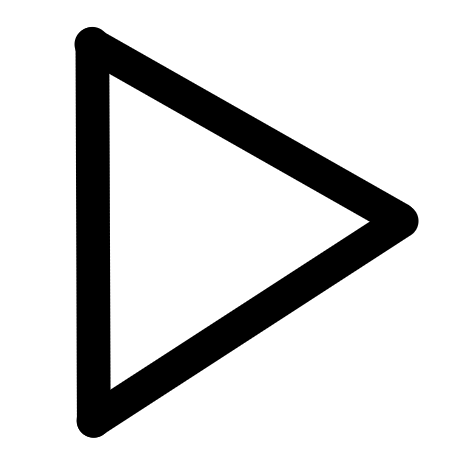
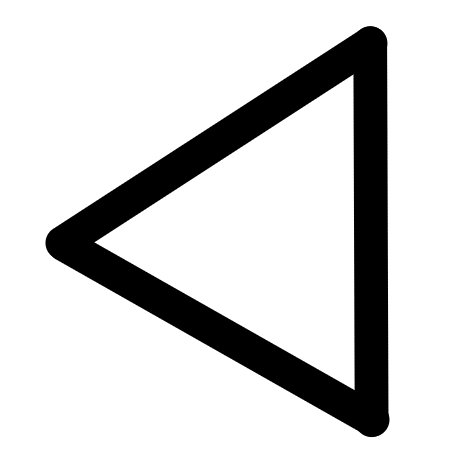
improve navigation and bugfixes

Changed region(s): [[0.0905, 0.0302, 0.9052, 0.9655]]

diff --git a/app/birdhouse/birdhouse-navigation.js b/app/birdhouse/birdhouse-navigation.js
@@ -8,50 +8,51 @@ var img_back       = '<img id="streamToggle_black" src="birdhouse/img/nav-back.p
 var img_forth_full = '<img id="streamToggle_black" src="birdhouse/img/nav-forth-full.png" class="nav-img-3">';
 var img_forth      = '<img id="streamToggle_black" src="birdhouse/img/nav-forth.png" class="nav-img-3">';
 
-var app_navigation = `<div class="nav-container">
-                <div class="nav-bar" id="nav-bar-1">
-                    <div class="controls">
-
-                        <span id="stream" onclick="toggleFloatingLowRes();" class="nav-on">
-                            <img id="streamToggle" src="birdhouse/img/camera.png" class="nav-img">
-                            <img id="streamToggle_black" src="birdhouse/img/camera_black.png" class="nav-img" style="display:none;">
-                        </span>
-
-                        <span id="moveUp_off" class="nav-off">`+img_up+`</span>
-                        <span id="moveUp" class="nav-on" style="display:none;" onclick="window.scrollTo(0,0);">`+img_up_full+`</span>
-
-                        <span id="moveForth_off" class="nav-off">`+img_forth+`</span>
-                        <span id="moveForth" class="nav-on" style="display:none;" onclick="birdhousePrint_page('PAGE_HISTORY|-1');">`+img_forth_full+`</span>
-
-                        <span id="moveBack_off" class="nav-off">`+img_back+`</span>
-                        <span id="moveBack" class="nav-on" style="display:none;" onclick="birdhousePrint_page('PAGE_HISTORY|1');">`+img_back_full+`</span>
-                    </div>
-                </div>
-            </div>
-            <div class="nav-container-top" onclick="birdhouse_toggleNavigation();">
-                <div class="nav-bar top" id="nav-bar-2">
-                    `+img_plus+`
-                </div>
-            </div>`;
-
-setTextById("navigation", app_navigation);
 
 var navBar1 = undefined;
 var navBar2 = undefined;
 
 function birdhouse_loadNavigation() {
-    navBar1 = document.getElementById('nav-bar-1');
-    navBar2 = document.getElementById('nav-bar-2');
+    var app_navigation = `<div class="nav-container">
+                        <div class="nav-bar" id="nav-bar-1">
+                            <div class="controls">
 
+                                <span id="stream" onclick="toggleFloatingLowRes();" class="nav-on">
+                                    <img id="streamToggle" src="birdhouse/img/camera.png" class="nav-img" title="`+lang('SHOW_STREAM')+`">
+                                    <img id="streamToggle_black" src="birdhouse/img/camera_black.png" class="nav-img" title="show stream" style="display:none;">
+                                </span>
+
+                                <span id="moveUp_off" class="nav-off">`+img_up+`</span>
+                                <span id="moveUp" class="nav-on" title="`+lang('PAGE_SCROLL_TOP')+`" style="display:none;" onclick="window.scrollTo(0,0);">`+img_up_full+`</span>
+
+                                <span id="moveBack_off" class="nav-off">`+img_back+`</span>
+                                <span id="moveBack" class="nav-on" title="`+lang('PAGE_BACK')+`" style="display:none;" onclick="birdhousePrint_page('PAGE_HISTORY|1');">`+img_back_full+`</span>
+
+                                <span id="moveForth_off" class="nav-off">`+img_forth+`</span>
+                                <span id="moveForth" class="nav-on" title="`+lang('PAGE_FORWARD')+`" style="display:none;" onclick="birdhousePrint_page('PAGE_HISTORY|-1');">`+img_forth_full+`</span>
+                            </div>
+                        </div>
+                    </div>
+                    <div class="nav-container-top" onclick="birdhouse_toggleNavigation();">
+                        <div class="nav-bar top" id="nav-bar-2">
+                            `+img_plus+`
+                        </div>
+                    </div>`;
+
+    setTextById("navigation", app_navigation);
+
+    navBar2 = document.getElementById('nav-bar-2');
     navBar2.addEventListener('mouseenter', () => {
         navBar1.classList.add('expanded');
         navBar2.innerHTML = img_minus;
         });
 
+    navBar1 = document.getElementById('nav-bar-1');
     navBar1.addEventListener('mouseleave', () => {
         navBar1.classList.remove('expanded');
         navBar2.innerHTML = img_plus;
         });
+
     }
 
 function birdhouse_toggleNavigation() {
@@ -59,5 +60,8 @@ function birdhouse_toggleNavigation() {
     else                                           { navBar1.classList.add('expanded'); navBar2.innerHTML = img_minus; }
     }
 
-birdhouse_loadNavigation();
+setTimeout(function() {
+    birdhouse_loadNavigation();
+    }, 5000);
+
 app_scripts_loaded += 1;

diff --git a/app/birdhouse/birdhouse-status.js b/app/birdhouse/birdhouse-status.js
@@ -121,15 +121,16 @@ function birdhouseStatus_print(data) {
     var height = Math.max( body.scrollHeight, body.offsetHeight, html.clientHeight, html.scrollHeight, html.offsetHeight );
 
     // Navigation element to scroll to the top off the page
-    if (height > 1.2 * document.body.clientHeight)          { elementVisible("moveUp"); elementHidden("moveUp_off"); }
-    else                                                    { elementVisible("moveUp_off"); elementHidden("moveUp"); }
+    let scrollY = window.scrollY || window.pageYOffset;
+    if (height > 1.2 * document.body.clientHeight && scrollY > 10)  { elementVisible("moveUp"); elementHidden("moveUp_off"); }
+    else                                                            { elementVisible("moveUp_off"); elementHidden("moveUp"); }
 
     // Navigation element to move back and forth in the view history
     if (app_active_history.length > 1) {
-        if (app_active_history_pos+1 < app_active_history.length) { elementVisible("moveBack"); elementHidden("moveBack_off"); }
-        else                                                      { elementVisible("moveBack_off"); elementHidden("moveBack"); }
-        if (app_active_history_pos > 0)                           { elementVisible("moveForth"); elementHidden("moveForth_off"); }
-        else                                                      { elementVisible("moveForth_off"); elementHidden("moveForth"); }
+        if (app_active_history_pos+1 < app_active_history.length)   { elementVisible("moveBack"); elementHidden("moveBack_off"); }
+        else                                                        { elementVisible("moveBack_off"); elementHidden("moveBack"); }
+        if (app_active_history_pos > 0)                             { elementVisible("moveForth"); elementHidden("moveForth_off"); }
+        else                                                        { elementVisible("moveForth_off"); elementHidden("moveForth"); }
         }
 
 

diff --git a/app/birdhouse/config_language.js b/app/birdhouse/config_language.js
@@ -136,6 +136,9 @@ var language_app = {
 		"OBJECT_DETECTION_REQUEST_REMOVE" : "Objekterkennung für den {0} löschen?",
 		"OBJECT_DETECTION_REMOVE" : "Daten zur Objekterkennung für diesen Tag löschen",
 		"ONE_DAY"               : "ein Tag",
+		"PAGE_BACK"             : "Seite zur&uuml;ck",
+		"PAGE_FORWARD"          : "Seite vor",
+		"PAGE_SCROLL_TOP"       : "zum Seitenanfang",
 		"PLEASE_WAIT"           : "Bitte warten.",
 		"PRESSURE"              : "Luftdruck",
 		"RANGE_ADD_ENTRY"       : "Bitte weiteres Bild ausw&auml;hlen, um alle Bilder zwischen der Auswahl zu recyceln.",
@@ -163,6 +166,7 @@ var language_app = {
 		"SHORTEN_VIDEO"         : "Video bearbeiten",
 		"SHORT_VERSION"         : "Gek&uuml;rzte Version",
 		"SHOW"                  : "Anzeigen",
+		"SHOW_STREAM"           : "zeige Stream",
         "SHORTEN"               : "K&uuml;rzen",
 		"SOURCE"                : "Quelle",
         "START"                 : "Start",
@@ -369,6 +373,9 @@ var language_app = {
 		"OBJECT_DETECTION_REQUEST_REMOVE" : "Remove object detection for {0}?",
 		"OBJECT_DETECTION_REMOVE" : "Remove object detection from this day",
         "ONE_DAY"               : "one day",
+		"PAGE_BACK"             : "page back",
+		"PAGE_FORWARD"          : "page forward",
+		"PAGE_SCROLL_TOP"       : "scroll to top",
 		"PLEASE_WAIT"           : "Please wait.",
 		"PRESSURE"              : "Pressure",
 		"RANGE_ADD_ENTRY"       : "Select one additional image to recycle a all image between both selected images.",
@@ -397,6 +404,7 @@ var language_app = {
 		"SHORTEN_VIDEO"         : "Shorten video",
 		"SHORT_VERSION"         : "Short version",
 		"SHOW"                  : "Show",
+		"SHOW_STREAM"           : "show stream",
 		"SOURCE"                : "Source",
 		"STATUS"                : "Status",
 		"START"                 : "Start",

diff --git a/app/birdhouse/birdhouse.js b/app/birdhouse/birdhouse.js
@@ -161,6 +161,8 @@ function birdhousePrint_page(page="INDEX", cam="", date="", label="") {
         app_active.cam     = app_active_history[app_active_history_pos].cam;
         app_active.date    = app_active_history[app_active_history_pos].date;
         page = app_active.page;
+        cam = app_active.cam;
+        date = app_active.date;
 
         if (app_active_history.length > 1) {
             if (app_active_history_pos+1 < app_active_history.length) { elementVisible("moveBack"); elementHidden("moveBack_off"); }
@@ -229,7 +231,10 @@ function birdhousePrint_page(page="INDEX", cam="", date="", label="") {
         return Object.keys(obj1).every(key => obj1[key] === obj2[key]);
         }
 
+    // add currently loaded page to the history (if not navigation in the history)
     if (!page_history) {
+        console.log("--> add page to history: " + app_active.page + "|" + app_active.cam + "|" + app_active.date);
+
         var state_copy       = { ...app_active };
         if (app_active_history.length == 0 || !this.compare(state_copy, app_active_history[0])) {
             app_active_history.unshift(state_copy);
@@ -433,8 +438,8 @@ function birdhouseSetMainVars(data) {
     }
 
 /*
-* This function sets main status variables based on the provided data. It checks if certain data properties are defined
-* and active, and if so, it populates the active page, micro, and date, and if logged in as admin.
+* This function sets main status variables based on the provided data.
+* It checks if certain data properties are defined and active.
 *
 * @param (dict) data: data returned from API
 */

diff --git a/app/birdhouse/birdhouse-views.js b/app/birdhouse/birdhouse-views.js
@@ -439,11 +439,11 @@ function birdhouse_LIST(page, data, camera, header_open=true) {
         var link_day_forward   = "";
         if (data_list["data"]["day_back"] != "")    {
             var onclick_back    = "birdhousePrint_page(page=\"TODAY\", cam=\""+camera+"\", date=\""+data_list["data"]["day_back"]+"\");";
-            page_title         += "<span onclick='" + onclick_back + "' style='float:right;cursor:pointer;' title='"+lang("DAY_BACK")+"'>&#187;</span>";
+            page_title         += "<span onclick='" + onclick_back + "' style='float:left;cursor:pointer;' title='"+lang("DAY_BACK")+"'>&#171;</span>";
             }
         if (data_list["data"]["day_forward"] != "") {
             var onclick_forward = "birdhousePrint_page(page=\"TODAY\", cam=\""+camera+"\", date=\""+data_list["data"]["day_forward"]+"\");";
-            page_title         += "<span onclick='" + onclick_forward + "' style='float:left;cursor:pointer;' title='"+lang("DAY_FORWARD")+"'>&#171;</span>";
+            page_title         += "<span onclick='" + onclick_forward + "' style='float:right;cursor:pointer;' title='"+lang("DAY_FORWARD")+"'>&#187;</span>";
             }
     }
 

diff --git a/app/birdhouse/birdhouse-functions.js b/app/birdhouse/birdhouse-functions.js
@@ -319,7 +319,7 @@ function birdhouse_view_images_threshold(threshold) {
                         image_list_active.push(image_ids_in_group[a]);
                         elementVisible(image_container);
                     }
-                    else {
+                    else if (image_container.indexOf("_FAV") < 0) {
                         image_list_inactive.push(image_ids_in_group[a]);
                         elementHidden(image_container);
                     }

diff --git a/server/modules/object.py b/server/modules/object.py
@@ -503,12 +503,16 @@ class BirdhouseObjectDetection(threading.Thread, BirdhouseCameraClass):
                         detections[detection["label"]]["default"][camera].append(stamp)
 
                     if "thumbnail" not in detections[detection["label"]] and "confidence" in detection:
+                        if not "confidence" in detection:
+                            detection["confidence"] = -1
                         detections[detection["label"]]["thumbnail"] = {
                             "stamp": stamp,
                             "confidence": detection["confidence"],
                             "threshold": threshold
                         }
                     elif is_favorite or len(detections[detection["label"]]["favorite"]) == 0:
+                        if not "confidence" in detection:
+                            detection["confidence"] = -1
                         detections[detection["label"]]["thumbnail"] = {
                             "stamp": stamp,
                             "confidence": detection["confidence"],
@@ -518,6 +522,8 @@ class BirdhouseObjectDetection(threading.Thread, BirdhouseCameraClass):
                     elif (len(detections[detection["label"]]["favorite"]) == 0 and "confidence" in detection and
                           detections[detection["label"]]["thumbnail"]["confidence"] < detection["confidence"]):
 
+                        if not "confidence" in detection:
+                            detection["confidence"] = -1
                         detections[detection["label"]]["thumbnail"] = {
                             "stamp": stamp,
                             "confidence": detection["confidence"],

diff --git a/server/modules/views.py b/server/modules/views.py
@@ -2961,7 +2961,8 @@ class BirdhouseViews(threading.Thread, BirdhouseClass):
 
         count = 0
         category = "/current/"
-        files_all = self.config.db_handler.read_cache(config="images")
+        files_all_temp = self.config.db_handler.read_cache(config="images")
+        files_all = files_all_temp.copy()
         data_weather = self.config.db_handler.read_cache(config="weather")
         data_sensor = self.config.db_handler.read_cache(config="sensor")
 
@@ -3008,7 +3009,7 @@ class BirdhouseViews(threading.Thread, BirdhouseClass):
                             threshold):
                         if float(files_all[stamp]["similarity"]) > 0:
                             count_diff += 1
-                    files_part[stamp] = files_all[stamp]
+                    files_part[stamp] = files_all[stamp].copy()
                     if "type" not in files_part[stamp]:
                         files_part[stamp]["type"] = "image"
                     files_part[stamp]["detect"] = self.camera[which_cam].img_support.differs(file_info=files_part[stamp])
